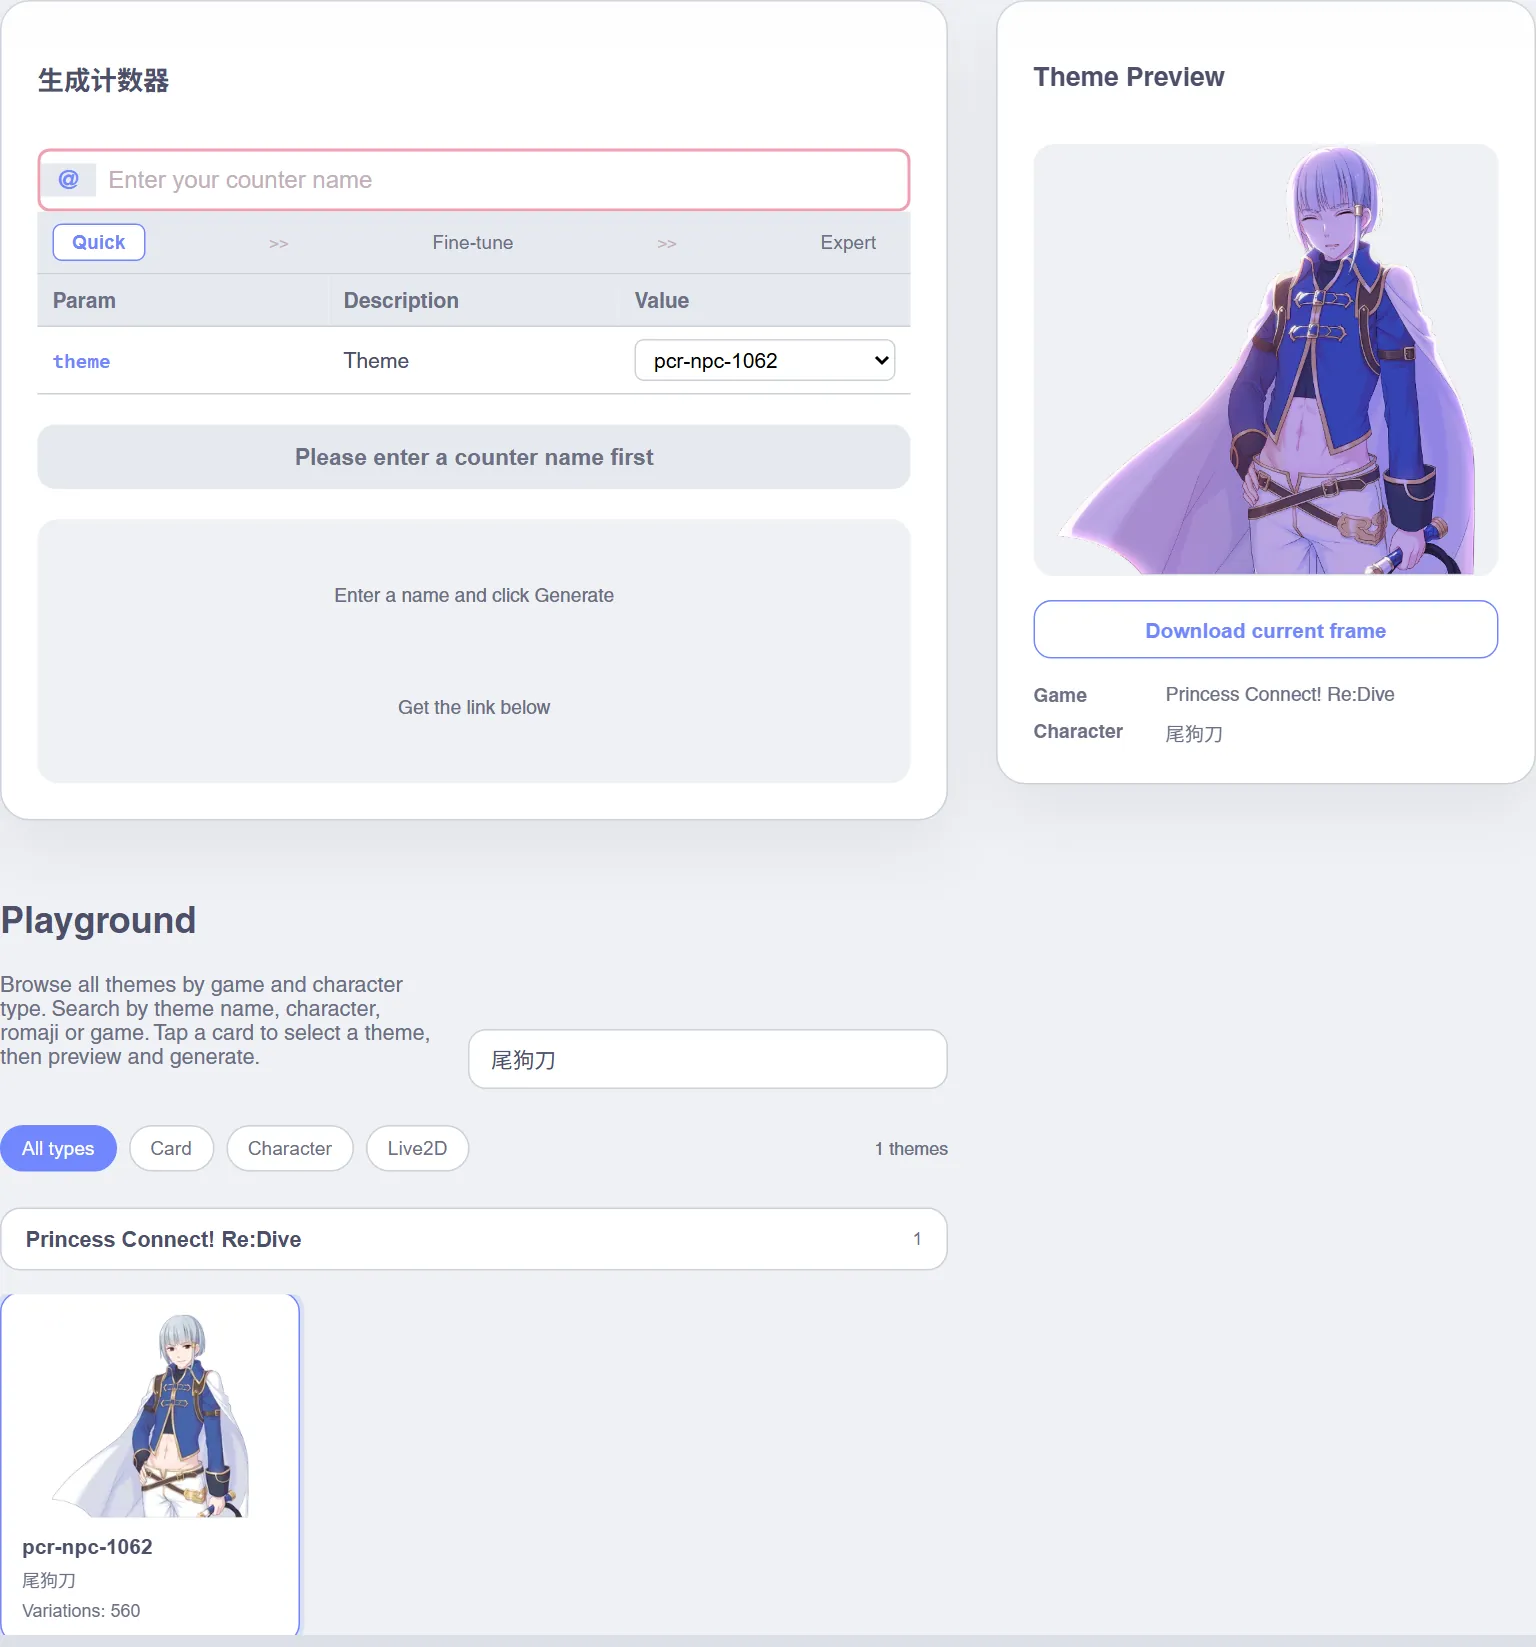
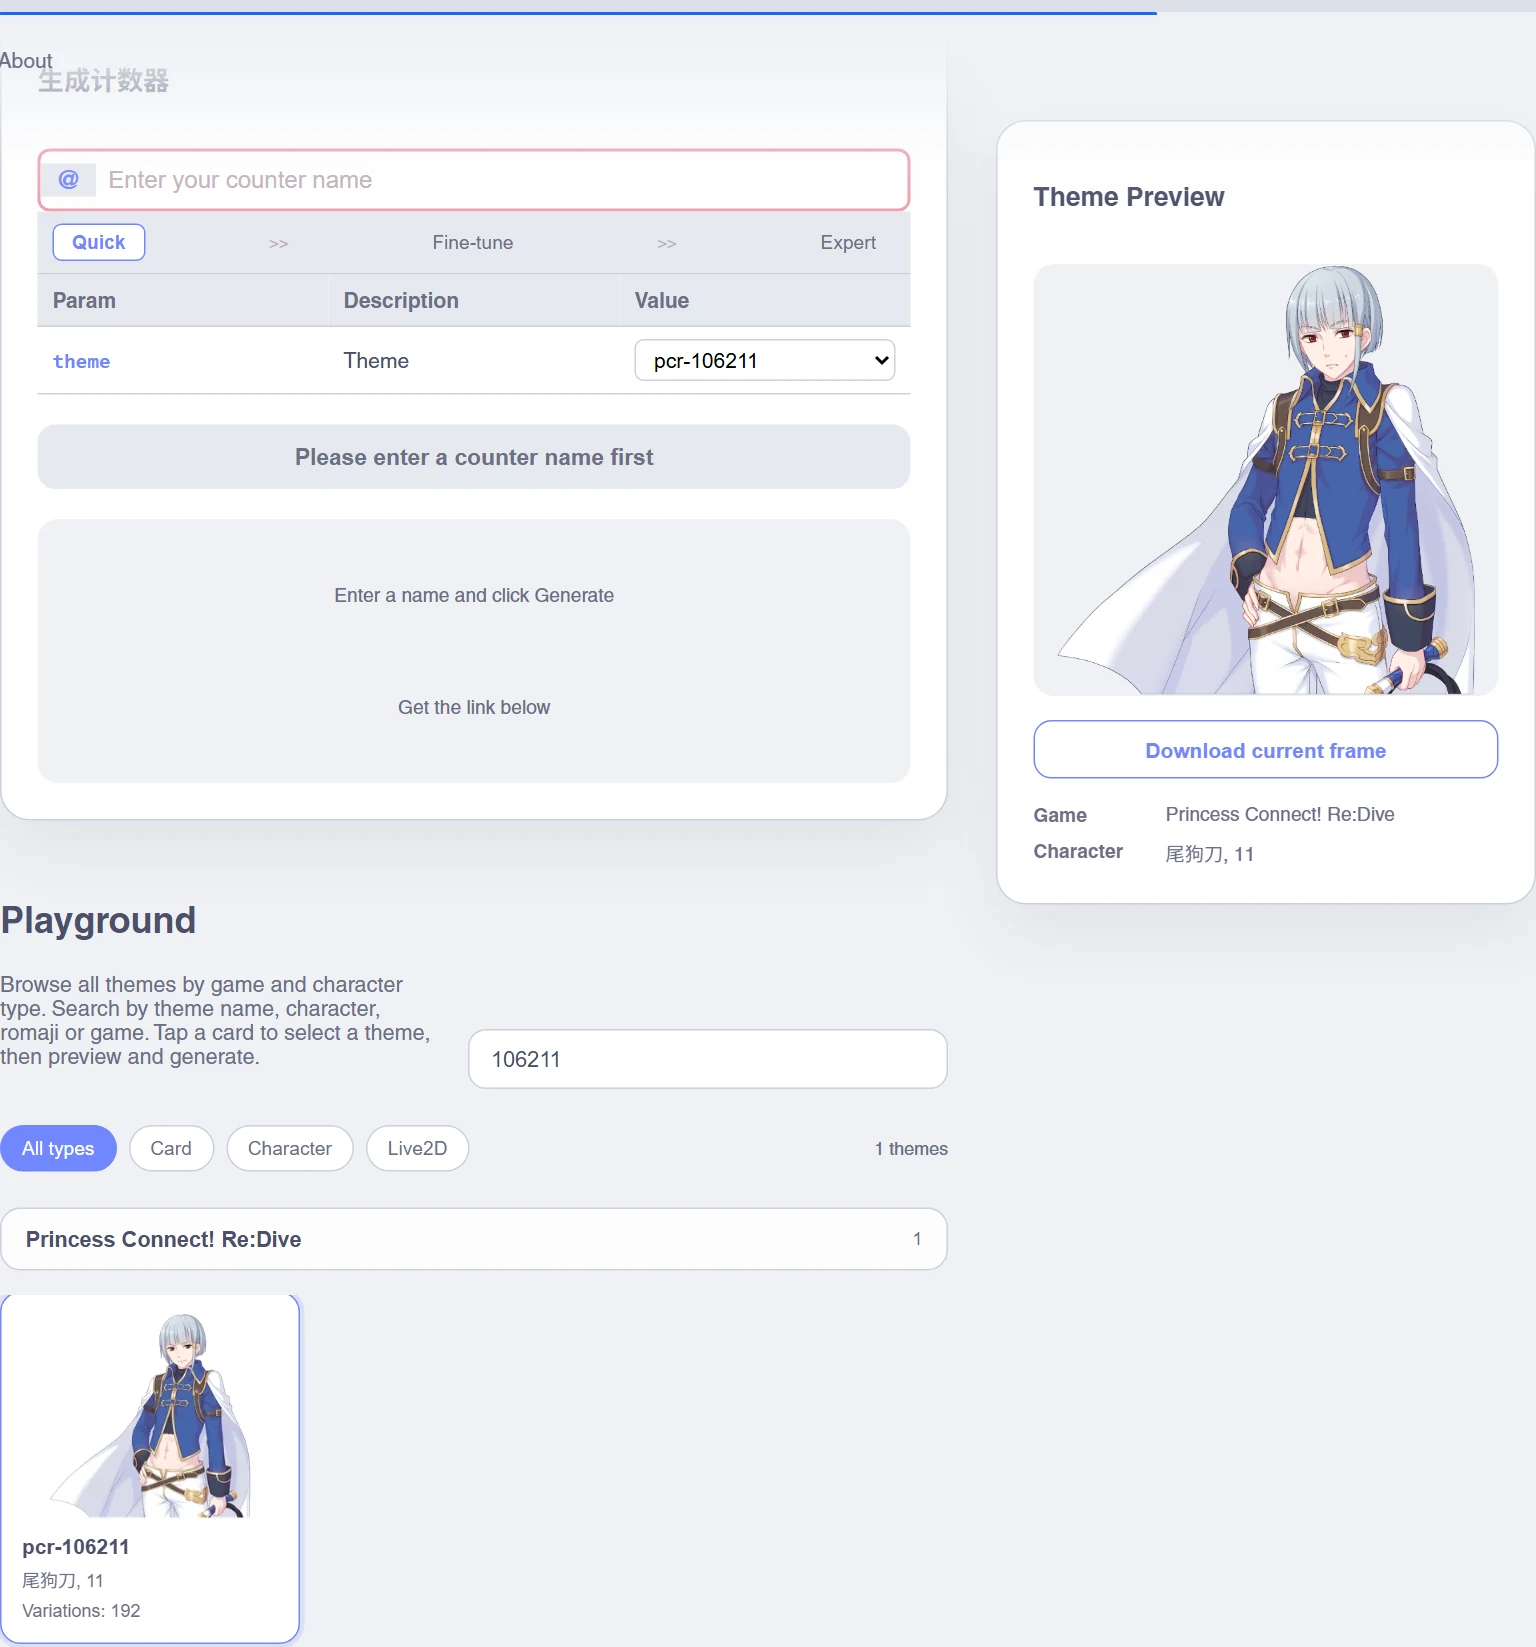
docs(themes): refresh the snapshot notes and screenshots
Documented the exclusion list split (162 low-variant plus 217 already
excluded equals 379), corrected the named/nameplate-only split to
1,186/309, spelled out the descriptive-nameplate rule with pcr-191412,
pcr-191413 and pcr-100012 as examples, dropped the unproven claim that the
217 models are pixel-identical to shipped portraits, and replaced the
screenshots with ones from the current build, adding the alias-title case
and the card/preview framing comparison.

更新公主连结主题文档：说明排除清单的构成（162 条变化数低于下限 + 217 条此前
已排除 = 379）、命名口径修正为 1,186 个有名主题 + 309 个仅带别名主题、把描述性
名牌与 191412/191413/100012 写进规则、删掉“与保留立绘像素完全相同”这一没有
证据的表述，并用当前构建重新截图（新增描述性命牌搜索示例与宽立绘卡片/预览框
对比图）。

diff --git a/docs/priconne-themes.md b/docs/priconne-themes.md
@@ -1,19 +1,19 @@
 # 公主连结剧情立绘主题
 
-新增公主连结静态立绘主题。**每个保留的剧情立绘模型各自成主题**，命名沿用 `pcr-<story-model-id>`；编号前四位是剧情批次编号而不是角色编号（同一批次里可能同时出现不同角色、吉祥物或道具），因此既不用它归并主题，也不用它当名字：角色名逐立绘取自剧情脚本的名牌，取不到名牌的立绘标题写 `Story <批次号>, <后缀>` 并带上名牌作为搜索别名。变化数低于 10 的主题整个删除（`scripts/priconne-low-variant-themes.json` 记录被删除的编号），避免出现点一下几乎不变或直接换角色的主题；`config.json` 的互斥 `sets` 格式仍然受支持，但当前快照没有用它。
+新增公主连结静态立绘主题。**每个保留的剧情立绘模型各自成主题**，命名沿用 `pcr-<story-model-id>`；编号前四位是剧情批次编号而不是角色编号（同一批次里可能同时出现不同角色、吉祥物或道具），因此既不用它归并主题，也不用它当名字：角色名逐立绘取自剧情脚本的名牌，取不到名牌的立绘标题写 `Story <批次号>, <后缀>` 并带上名牌作为搜索别名。变化数低于 10 的主题整个删除（被删除的编号连同此前已排除的模型记在 [priconne-excluded-themes.json](../scripts/priconne-excluded-themes.json)，共 379 条：162 条变化数低于下限、217 条此前就没有主题），避免出现点一下几乎不变或直接换角色的主题；`config.json` 的互斥 `sets` 格式仍然受支持，但当前快照没有用它。
 
 主题覆盖两份资源清单中的角色立绘，包含剧情姿势、现实世界服装和 NPC；导出数量与验证结果见本页下方的快照验证记录。
 
-快照验证记录：清单中 2,104 个 `spine_full` 模型去掉非立绘、未登场剪影和所有变化数低于 10 的主题后，保留 **1,495 套可见服装**并整理为 **1,495 个主题**（1,194 个有名角色主题与 301 个仅带名牌别名的主题），包含 **47,197 张去重分层与 353,118 种组合**，分层 WebP 合计约 **499.7 MiB**。逐主题计数、回拼误差与资源清单 SHA-256 见 [验证记录](./priconne-validation.json)。
+快照验证记录：清单中 2,104 个 `spine_full` 模型去掉非立绘、未登场剪影和所有变化数低于 10 的主题后，保留 **1,495 套可见服装**并整理为 **1,495 个主题**（1,186 个有名角色主题与 309 个仅带名牌别名的主题），包含 **47,197 张去重分层与 353,118 种组合**，分层 WebP 合计约 **499.7 MiB**。逐主题计数、回拼误差与资源清单 SHA-256 见 [验证记录](./priconne-validation.json)。
 
 ## 素材范围与来源
 
 - 快照清单：[priconne-manifest.txt](../scripts/priconne-manifest.txt)，合并 `spine2` 与 `storydata2` 中的 `spine_full_<id>` / `storydata_spine_full_<id>` 资源，按模型 ID 去重后保留 2,104 条记录，包括资源路径与内容寻址 hash。相同 ID 优先使用第一份资源包；例如日和莉、佩可莉姆的图集、骨骼与身体/眼嘴配置相同，仅资源包命名不同。
-- [priconne-exclusions.json](../scripts/priconne-exclusions.json) 明确列出 128 个非立绘资源（答题面板、标题特效、道具或占位项）。另删除 [priconne-silhouettes.json](../scripts/priconne-silhouettes.json) 中 102 个角色未登场半透明剪影，并按变化数下限删除 162 个主题（低于 10 个变化，不区分有名角色、反派或路人）；另有 217 个模型与此前已排除的条目因为与保留立绘像素完全相同或早已排除而没有独立主题。全部未发布编号记录在 [priconne-excluded-themes.json](../scripts/priconne-excluded-themes.json)。覆盖本次清单中的目标素材，不代表全部游戏素材或未来版本。
+- [priconne-exclusions.json](../scripts/priconne-exclusions.json) 明确列出 128 个非立绘资源（答题面板、标题特效、道具或占位项）。另删除 [priconne-silhouettes.json](../scripts/priconne-silhouettes.json) 中 102 个角色未登场半透明剪影，并按变化数下限删除 162 个主题（低于 10 个变化，不区分有名角色、反派或路人）；另有 217 个模型此前就没有独立主题（与保留立绘重复或早先已排除）。全部未发布编号记录在 [priconne-excluded-themes.json](../scripts/priconne-excluded-themes.json)。覆盖本次清单中的目标素材，不代表全部游戏素材或未来版本。
 - 公开提取工具：[lskyset/priconne-asset-extractor](https://github.com/lskyset/priconne-asset-extractor) 支持下载游戏资源清单、提取 Unity 图片与文本；[MightyZanark/PriconneUtils](https://github.com/MightyZanark/PriconneUtils) 也提供日服资源下载流程。它们是工具仓库，并非完整美术素材镜像。
 - 原始资源来自游戏公开 CDN `https://prd-priconne-redive.akamaized.net/dl/pool/AssetBundles/<hash 前两位>/<hash>`。本 PR 提交处理后的静态分层，不提交 Unity 资源包或游戏数据库。
 - 名称有两个来源：游戏主数据库的单位/角色记录，以及剧情脚本本身。剧情文本用 [Overseer-Council/PrincessConnectRedive_story_extraction](https://github.com/Overseer-Council/PrincessConnectRedive_story_extraction) 的命令清单（仓库里 2,165 个故事各存两份逐字节相同的拷贝，共 4,330 个文件），每个 `focus`（台词＋名牌）前最近的 `type`/`visible`/`jump`/`in_*` 参数就是该立绘的角色编号（清单里的编号去掉前导零，例如 `2711` 对应资产 `002711`）；按编号投票，只接受跨两个以上文件一致的名牌，得到逐 **立绘编号**的角色名，逐立绘的覆盖结果冻结在 [priconne-model-names.json](../scripts/priconne-model-names.json)，主数据库里只有单位记录的角色仍用 [priconne-names.json](../scripts/priconne-names.json)。罗马音与英文别名在 [priconne-romaji.json](../scripts/priconne-romaji.json) 和 [priconne-english-aliases.json](../scripts/priconne-english-aliases.json)，中文另对照 [wthee/pcr-tool-sql-diff](https://github.com/wthee/pcr-tool-sql-diff/tree/708213df9b6fe9aad632801dadc98e0ffc30cbab/cn/data/unit_data.sql) 与[公开数据库字段映射](https://github.com/wthee/pcr-tool-sql-diff/tree/708213df9b6fe9aad632801dadc98e0ffc30cbab/jp_hash)。`0027` スバル、`1000` 主人公、`1900` アメス这些只有剧情立绘的角色同样逐立绘记录；后两者没有可用的剧情名牌，属于按立绘与角色资料判断的中置信条目。
-- 名牌里描述性的称呼（`男孩`、`女孩子`、`村长`、`ギャング１`、`兵士１`、`スライム（赤）` 等）不算姓名：这些主题标题写 `Story <批次号>, <后缀>`，只把名牌加进搜索别名，原模型编号也仍是搜索别名。部分名牌本身就是日文原文（`ゼーン`、`モーラ`、`ゴウシン` 等），此时中日两列都用该原文，不另做回译。编号前四位只在逐个立绘核对过时才当作角色线索：`191411` 是 `ゴウシン`（旧版按前缀错标成可可萝，已按剧情文本修正），同批次里没有名牌的立绘保持无名。
+- 名牌里描述性的称呼（`男孩`、`女孩子`、`村长`、`ギャング１`、`兵士１`、`スライム（赤）` 等）不算姓名：这些主题标题写 `Story <批次号>, <后缀>`，只把名牌加进搜索别名，原模型编号也仍是搜索别名。部分名牌本身就是日文原文（`ゼーン`、`モーラ`、`ゴウシン` 等），此时中日两列都用该原文，不另做回译。编号前四位只在逐个立绘核对过时才当作角色线索：`191411` 是 `ゴウシン`（旧版按前缀错标成可可萝，已按剧情文本修正），同批次里没有名牌的立绘保持无名——`191412`/`191413` 与 `100012`、`000112` 这些虽然所在批次里有名字（或名牌是「男孩子」这类称呼），本身没有可用的姓名，因此标题仍是 `Story <批次号>, <后缀>`。
 - 原游戏美术版权归 Cygames 等各权利方所有；工具仓库的代码许可不等同于游戏美术许可。
 
 ## 分层格式与处理
@@ -75,11 +75,15 @@ pnpm --dir web generate
 
 ![主题库按角色名搜索](images/priconne-web-gallery.webp)
 
-主题库与预览框对特别宽的立绘会保持水平居中，并把越出框外的左右两侧做成渐隐；比框窄的立绘不受影响，/@demo 等实际输出的计数图始终是完整图片：
+没有取到姓名的立绘标题统一写 `Story <批次号>, <后缀>`，「男孩子」这类描述性命牌仍能搜到（只作为搜索别名）：
 
-![宽立绘在卡片框内的渐隐效果](images/priconne-web-wide-portrait.webp)
+![描述性命牌作为搜索别名，标题保持 Story 批次号](images/priconne-web-unnamed.webp)
 
-![选中合并主题后的预览与角色信息](images/priconne-web-preview.webp)
+宽立绘在卡片与预览框里都保持水平居中，越出框外的左右两侧渐变消失，框本身的底色与圆角不受影响；比框窄的立绘保持原样，/@demo 等实际输出的计数图始终是完整图片：
+
+![宽立绘在卡片与预览框内的渐隐效果](images/priconne-web-wide-portrait.webp)
+
+![选中主题后的预览与角色信息](images/priconne-web-preview.webp)
 
 ![同一批命名主题的计数图](images/priconne-web-counters.webp)
 
